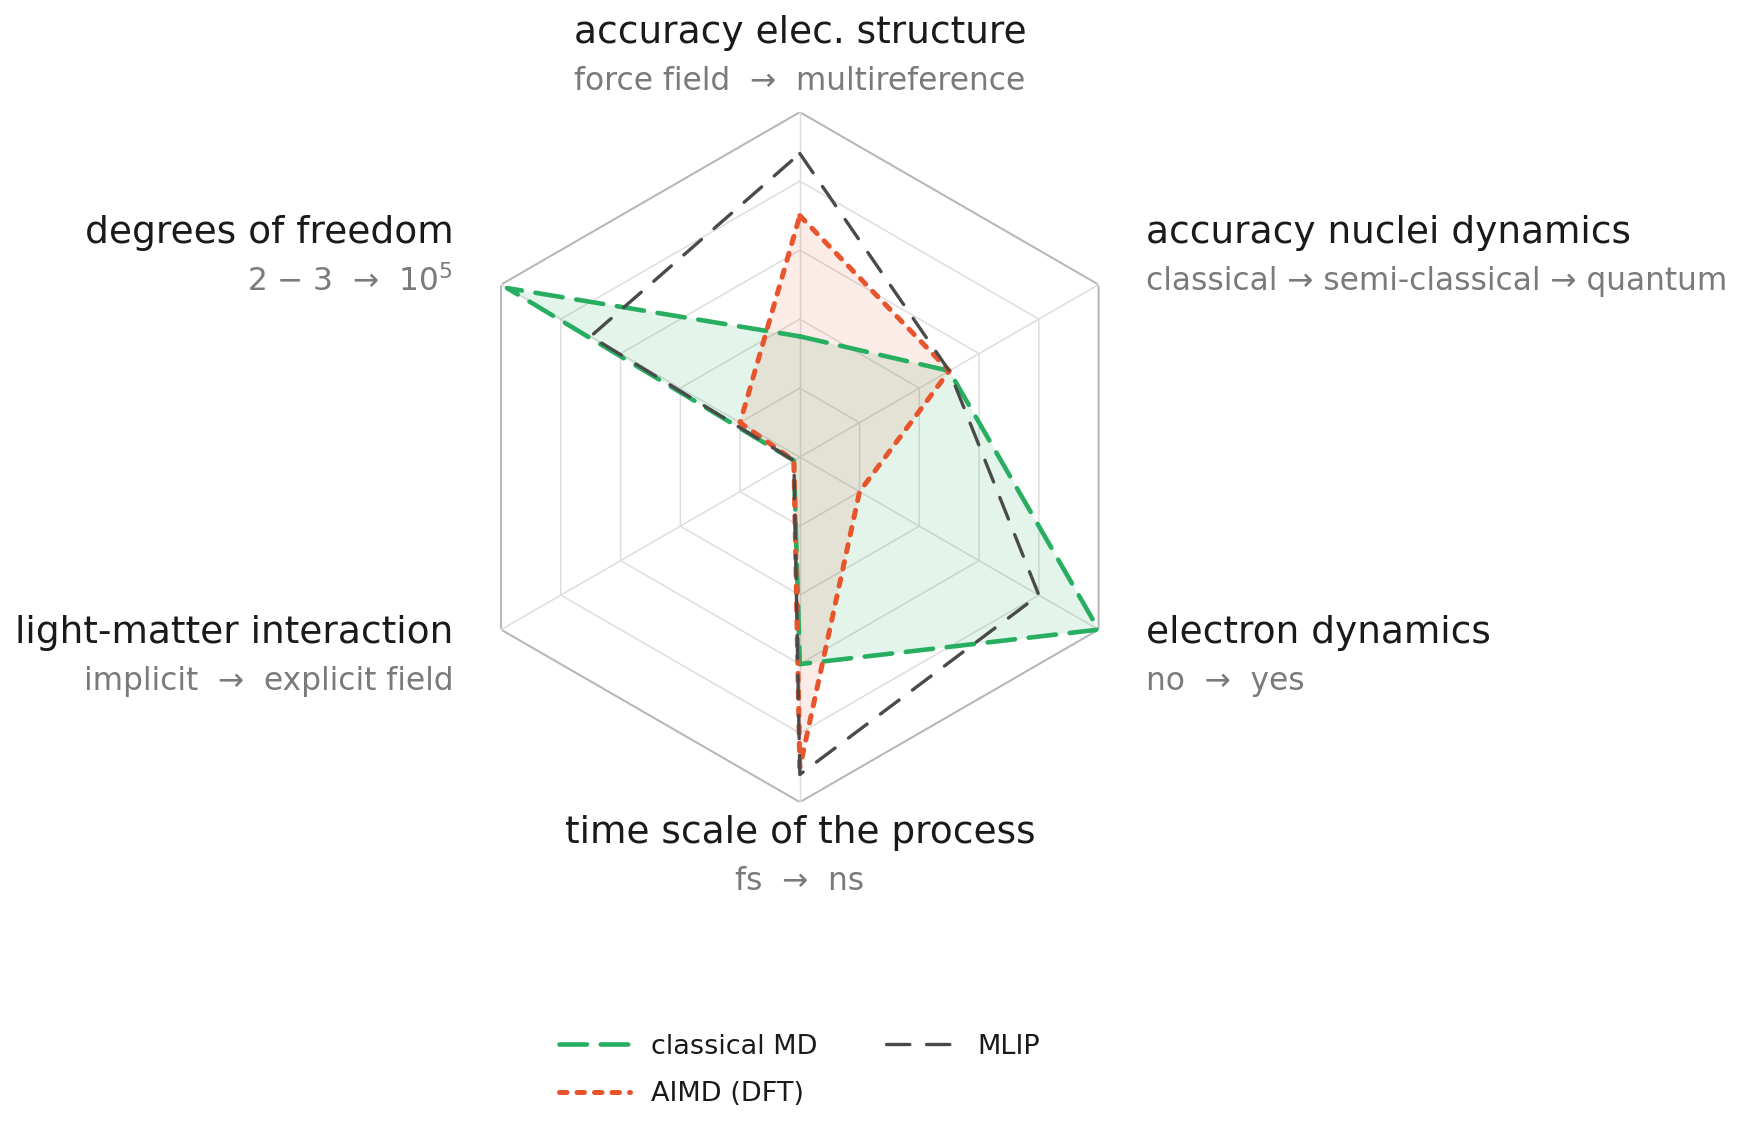
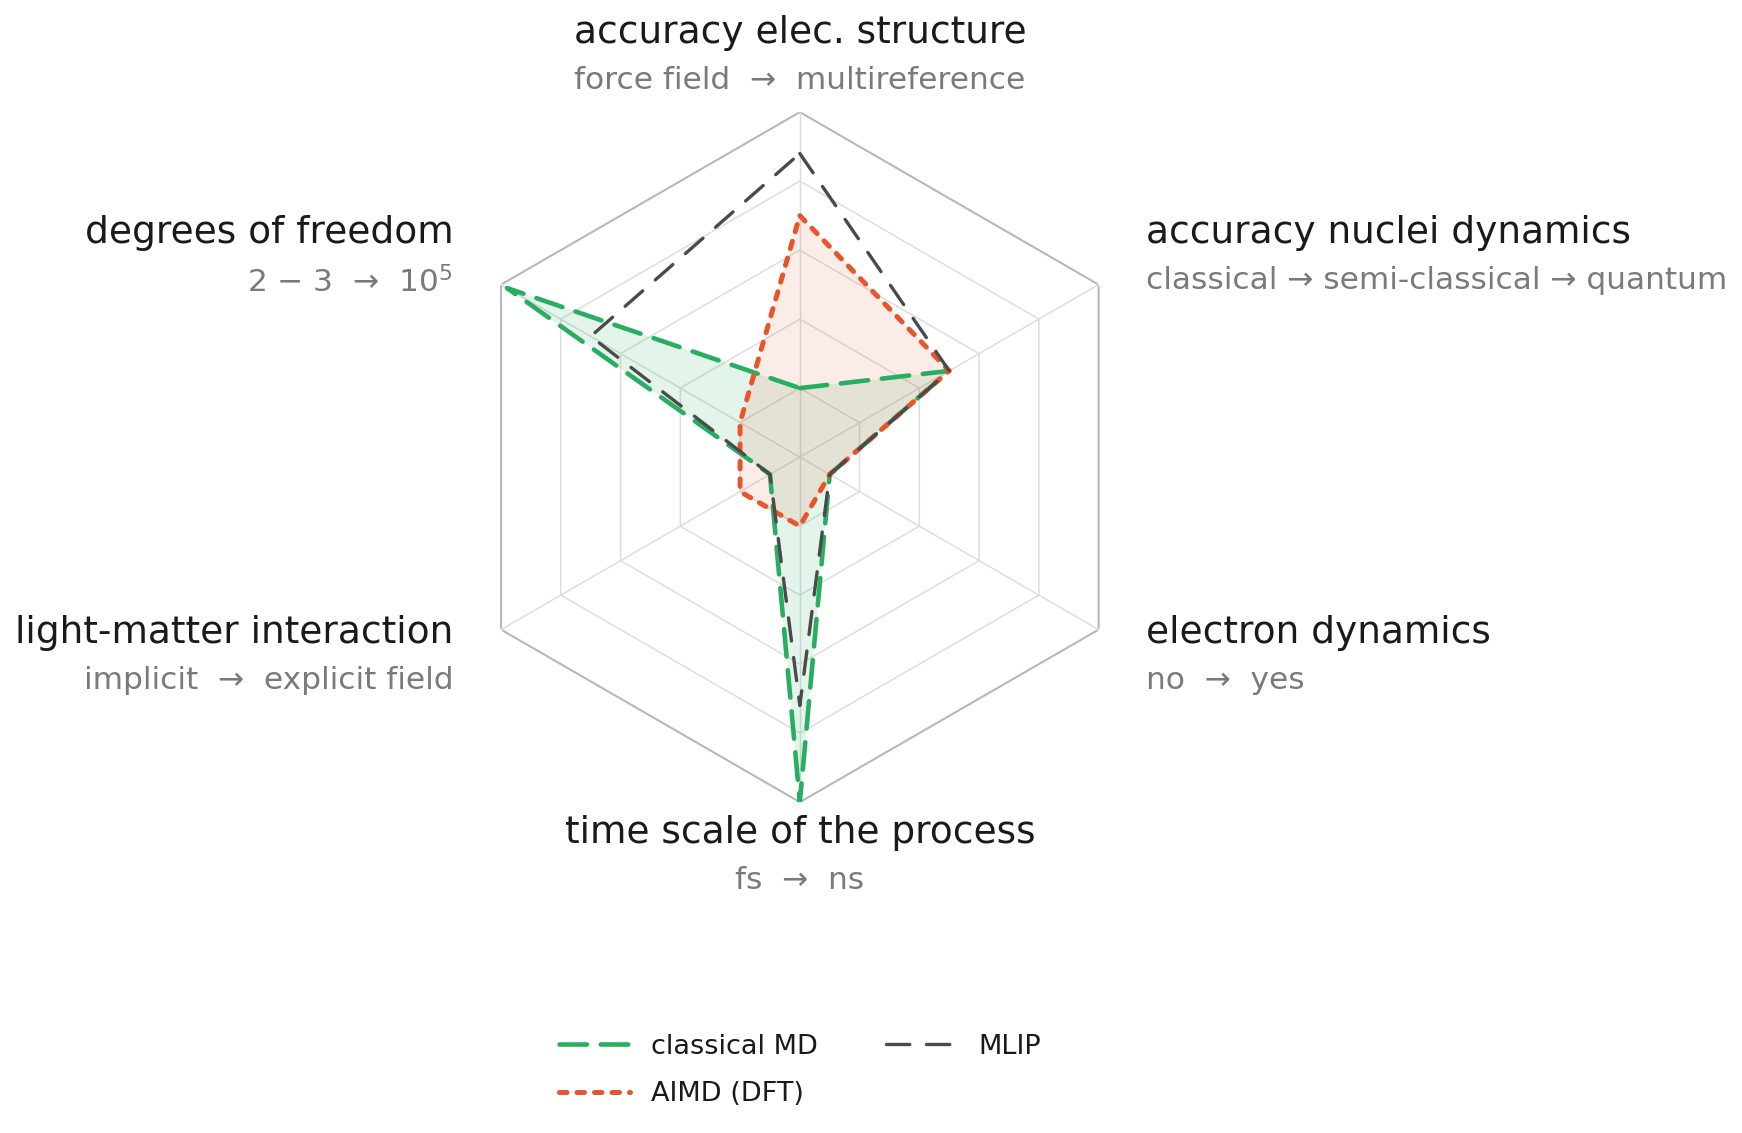
update radar II

Changed region(s): [[0.279, 0.2471, 0.651, 0.7105], [0.558, 0.8959, 0.589, 0.9267], [0.434, 0.8959, 0.465, 0.9267]]

diff --git a/slides/images/spider/sessionII/radar_methods.py b/slides/images/spider/sessionII/radar_methods.py
@@ -36,15 +36,15 @@ AXES = [
 # --------------------------------------------------------------------------
 METHODS = {
     "classical MD": dict(
-        values=[0.35, 0.50, 1.00, 0.60, 0.02, 0.98],
+        values=[0.20, 0.50, 0.10, 1.00, 0.10, 0.98],
         color="#27ae60", linestyle=(0, (6, 3)), linewidth=2.2, fill=0.13,
     ),
     "AIMD (DFT)": dict(
-        values=[0.7, 0.50, 0.20, 0.90, 0.02, 0.20],
+        values=[0.7, 0.50, 0.10, 0.20, 0.20, 0.20],
         color="#e8552d", linestyle=(0, (1.5, 2)), linewidth=2.4, fill=0.11,
     ),
     "MLIP": dict(
-        values=[0.88, 0.50, 0.80, 0.92, 0.02, 0.70],
+        values=[0.88, 0.50, 0.10, 0.72, 0.10, 0.70],
         color="#4a4a4a", linestyle=(0, (7, 5)), linewidth=1.6, fill=0.0,
     ),
 }
